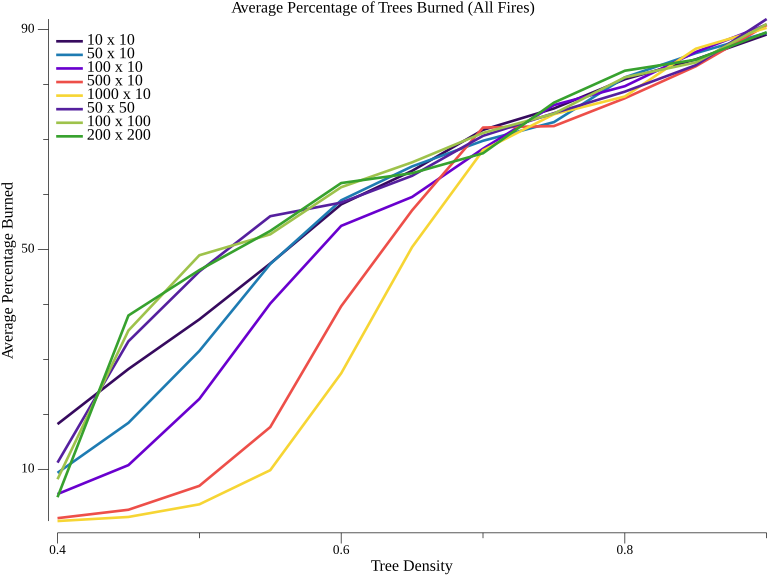
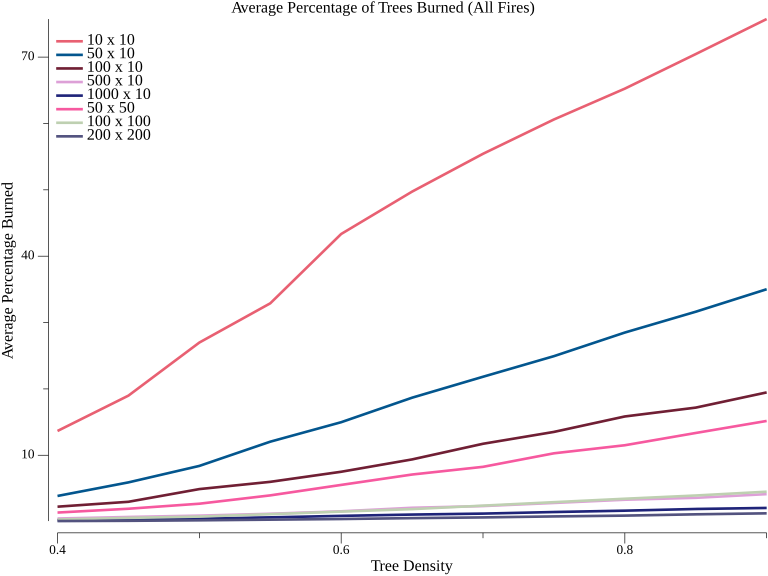
Forest + simple http server

diff --git a/zad_03/forest.go b/zad_03/forest.go
@@ -16,7 +16,7 @@ import (
 func main() {
 	// ----------------- ONE SIM ------------------
 	// Generate matrix
-	matrix := generateMatrix(15, 20, 0.5)
+	matrix := generateMatrix(15, 20, 0.4)
 
 	fmt.Println("Initial Forest:")
 	printMatrix(matrix)
@@ -34,6 +34,7 @@ func main() {
 	// Calculate percentage of trees burned
 	percentBurned := countBurntTrees(matrix)
 	fmt.Printf("\nPercentage of trees burned: %.2f%%\n", percentBurned)
+
 	// ------------ TESTING DIFFERENT DENSITIES WITH ALL FIRES -------------
 
 	rows := []int{10, 50, 100, 500, 1000, 50, 100, 200}
@@ -259,7 +260,7 @@ func igniteFire(matrix [][]int, row, col int, probability float64) {
 			if i >= 0 && i < len(matrix) && j >= 0 && j < len(matrix[0]) {
 				// Spread fire to trees with probability
 				if matrix[i][j] == 1 && rand.Float64() < probability {
-					igniteFire(matrix, i, j, probability*1) // Decrease probability
+					igniteFire(matrix, i, j, probability*0.95) // Decrease probability
 				}
 			}
 		}
